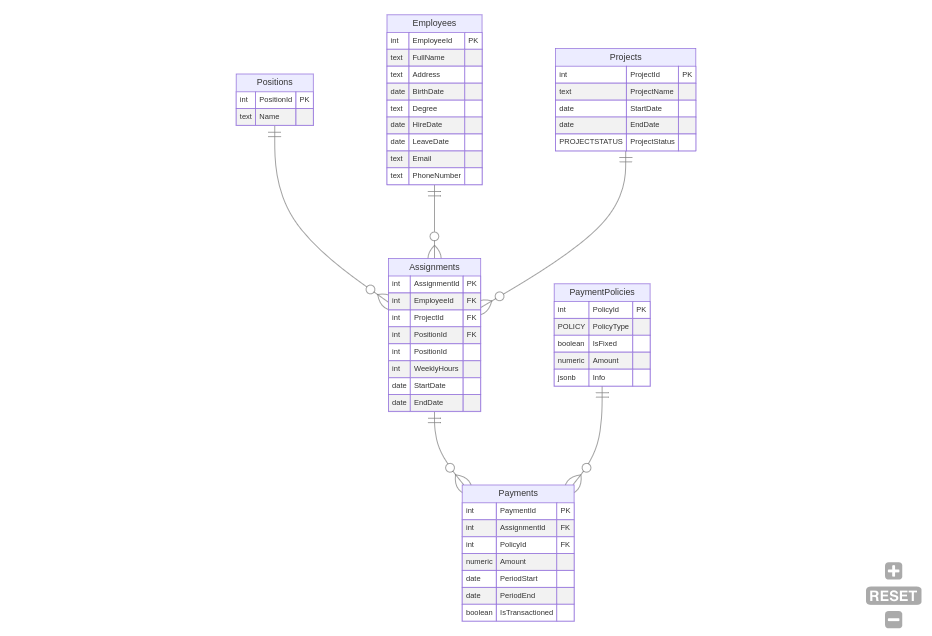
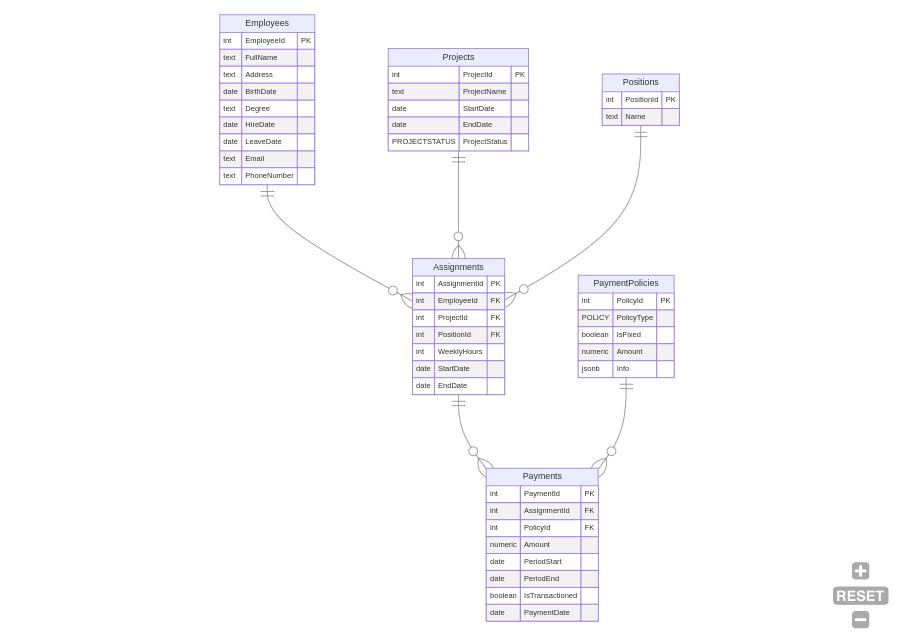
Modified README

diff --git a/README.md b/README.md
@@ -81,12 +81,20 @@
 
 Содержит информацию о всех сотрудниках компании (ту, что содержится в таблице Emplyyes в базе данных). Также присутсвуют архивные записи об уволенных сотрудниках
 
-1. Кнопка фильтрации (по имени, стажу и пр.)
-2. Режим сортировки
+1. Кнопка фильтрации:
+   - По ФИО (Полнотекстовый поиск)
+   - По стажу работы (диапазон)
+   - По текущей должности
+   - По участию в проекте
+   - По статусу (действующий/уволенный)
+2. Режим сортировки:
+   - По ФИО (А-Я, Я-А)
+   - По дате приема на работу
+   - По дате рождения
+   - По текущей должности
+   - По количеству проектов
 3. При нажатии на конкретного сотрудника происходит переход на его карточку в [Информации о сотрудниках](#pg_emp_info)
 4. Кнопка добавить служащего - также перенаправляет на страницу [Информация о сотрудниках](#pg_emp_info). Все поля пустые, новый сотрудник не попадает в базу до заполнения всех полей
-5. Кнопка переключатель - показывать только действующих сотрудников или уволенных тоже
-6. Поиск по имени
 
 <a name="pg_projects"></a>
 
@@ -94,8 +102,15 @@
 
 Содержит информацию о всех проектах компании (в т.ч. должностей, не относящихся к конкретным проектам)
 
-1. Кнопка фильтрации
-2. Режим сортировки
+1. Кнопка фильтрации:
+   - По названию
+   - По дате начала (диапазон)
+   - По дате окончания (диапазон)
+   - По статусу (активный/завершённый/архивный)
+2. Режим сортировки:
+   - По названию (А-Я, Я-А)
+   - По дате начала
+   - По дате окончания
 3. При нажатии на конкретный проект происходит переход на его карточку в [Информации о проектах](#pg_proj_info)
 4. Кнопка добавить проект - также перенаправляет на страницу [Информация о проектах](#pg_proj_info). Все поля пустые, новый проект не попадает в базу до заполнения всех полей
 5. Поиск по названию
@@ -106,8 +121,16 @@
 
 Все начисления зарплат/премий конкретным сотрудникам
 
-1. Кнопка филтрации (по датам, по размеру, по типу)
-2. Режим сортировки
+1. Кнопка фильтрации:
+   - По дате выплаты (диапазон)
+   - По размеру выплаты (диапазон)
+   - По типу выплаты (зарплата, премия, бонус, и т.д.)
+   - По сотруднику
+   - По политике выплаты
+2. Режим сортировки:
+   - По дате выплаты
+   - По размеру выплаты
+   - По ФИО сотрудника
 
 Данные можно редактировать
 
@@ -117,8 +140,16 @@
 
 Политики выплат компании, связанные с премиями, проектам и т.д.
 
-1. Кнопка фильтрации по типу/размеру выплат
-2. Режим сортировки
+1. Кнопка фильтрации:
+   - По типу политики (salary, seniority, calendar_bonus, one_time_bonus)
+   - По размеру выплаты (диапазон)
+   - По проекту
+   - По должности
+   - По минимальному стажу (для типа seniority)
+   - По событию/поводу (для calendar_bonus, one_time_bonus)
+2. Режим сортировки:
+   - По размеру выплаты
+   - По минимальному стажу
 
 Данные можно редактировать
 
@@ -164,34 +195,182 @@
 
 ## Сценарии использования
 
-- Добавить нового сотрудника
-        1. Главная страница ->
-        2. Список сотрудников -> 
-        3. Добавить сотрудника ->
-        4. Ввести все необходимые поля ->
-        5. Сохранить
-- Посмотреть историю участия в проектах для конкретного сотрудника
-        1. Главная страница ->
-        2. Список сотрудников ->
-        3. Поиск по имени ->
-        4. Нажать на сотрудника ->
-        5. Получить искомый список
-- Изменение политики выплат
-        1. Главная страница ->
-        2. Политики выплат ->
-        3. Найти нужную ->
-        4. Поменять оклад
-- Составление отчётов
-        1. Главная страница ->
-        2. История начислений ->
-        3. Выбираем сроки/категории
-        4. Получаем всю информацию для составления отчётов
-- Изменение контактной информации сотрудника
-        1. Главная страница ->
-        2. Список сотрудников ->
-        3. Найти нужного ->
-        4. Нажать на него ->
-        5. Поменять почту/номер телефона
+### 1. Добавление нового сотрудника
+1. Главная страница
+2. Нажать "Список сотрудников"
+3. Нажать кнопку "Добавить сотрудника"
+4. Заполнить все необходимые поля:
+   - ФИО, дата рождения, образование
+   - Домашний адрес
+   - Контактная информация
+   - Дата приема на работу
+5. Нажать "Сохранить" -> Сотрудник добавлен в систему
+
+### 2. Просмотр истории участия в проектах для конкретного сотрудника
+1. Главная страница
+2. Нажать "Список сотрудников"
+3. Использовать поиск по ФИО или фильтр по фамилии
+4. Нажать на нужного сотрудника
+5. На странице "Информация о сотруднике" просмотреть раздел "Участие в проектах":
+   - Текущие проекты и роли
+   - Архив: бывшие проекты с датами начала и окончания
+   - Должности на каждом проекте
+
+### 3. Назначение сотрудника на проект с определенной должностью
+1. Главная страница
+2. Нажать "Список проектов"
+3. Кликнуть на нужный проект
+4. На странице "Информация о проекте" нажать кнопку "Добавить сотрудника"
+5. В появившемся меню:
+   - Выбрать сотрудника из списка (с поиском)
+   - Выбрать должность в проекте (руководитель, аналитик, секретарь, эксперт)
+   - Указать дату начала работы
+6. Нажать "Подтвердить" -> Сотрудник добавлен в проект
+
+### 4. Изменение контактной информации сотрудника
+1. Главная страница
+2. Нажать "Список сотрудников"
+3. Найти и кликнуть на нужного сотрудника
+4. На странице "Информация о сотруднике" в разделе "Контактная информация":
+   - Отредактировать/добавить номер телефона
+   - Отредактировать/добавить email
+   - Отредактировать домашний адрес
+5. Нажать "Сохранить" -> Данные обновлены
+
+### 5. Изменение должности сотрудника
+1. Главная страница
+2. Нажать "Список сотрудников"
+3. Найти и кликнуть на нужного сотрудника
+4. На странице "Информация о сотруднике" найти кнопку "Изменить должность"
+5. Выбрать новую должность из списка доступных должностей/проектов
+6. Указать дату вступления в должность
+7. Нажать "Применить" -> История должностей обновлена, текущая должность изменилась
+
+### 6. Удаление сотрудника из проекта
+1. Главная страница
+2. Способ A: Через проект
+   - Нажать "Список проектов"
+   - Выбрать проект
+   - На странице проекта найти сотрудника в списке
+   - Нажать кнопку "Удалить" рядом с ним
+   - Указать дату окончания работы (или текущую дату)
+3. Способ B: Через карточку сотрудника
+   - Нажать "Список сотрудников"
+   - Выбрать сотрудника
+   - На странице "Информация о сотруднике" в списке проектов нажать "Удалить из проекта"
+4. Нажать "Подтвердить" -> Запись переместилась в архив проекта для данного сотрудника
+
+### 7. Составление ведомости к выплате зарплат (Отчет по сотрудникам)
+1. Главная страница
+2. Нажать "История начислений"
+3. Применить фильтры:
+   - **По типу выплаты**: Выбрать "Зарплата"
+   - **По дате выплаты**: Указать начало и конец периода (месяца/квартала)
+   - (Опционально) **По проекту**: Если нужна ведомость конкретного проекта
+4. Данные отчета должны содержать:
+   - ФИО сотрудника
+   - Должность
+   - Оклад (размер выплаты за период)
+   - Дата выплаты
+   - Проект (если применяется)
+5. (Опционально) Экспортировать в файл/печать
+6. На основе отчета:
+   - Подготовить ведомость для бухгалтерии
+   - Проверить правильность начислений
+   - Выявить недоплаты или переплаты
+
+### 8. Анализ премиальных начислений (Отчет по премиям)
+1. Главная страница
+2. Нажать "История начислений"
+3. Применить фильтры:
+   - **По типу выплаты**: Выбрать "Премия" или "Бонус"
+   - **По дате выплаты**: Указать нужный период
+   - (Опционально) **По сотруднику**: Для анализа премий конкретного лица
+4. Данные отчета должны содержать:
+   - ФИО сотрудника
+   - Тип премии (праздничная/за достижения/за стаж)
+   - Размер премии
+   - Дата выплаты
+   - Причина/повод
+5. На основе отчета:
+   - Проанализировать объем премирования
+   - Выявить наиболее часто премируемых сотрудников
+   - Проверить соответствие политикам выплат
+
+### 9. Составление отчета по расходам на сотрудника
+1. Главная страница
+2. Нажать "История начислений"
+3. Применить фильтры:
+   - **По сотруднику**: Выбрать конкретного сотрудника
+   - **По дате выплаты**: Указать период (весь год или квартал)
+4. Данные отчета должны содержать для выбранного сотрудника:
+   - Итоговая сумма зарплаты за период
+   - Итоговая сумма премий за период
+   - Итоговая сумма бонусов за период
+   - Полная сумма расходов на сотрудника
+5. На основе отчета:
+   - Рассчитать среднемесячные расходы
+   - Сравнить с предыдущими периодами
+   - Оценить ROI сотрудника
+
+### 10. Проверка правильности политик выплат
+1. Главная страница
+2. Нажать "Политики выплат"
+3. Применив фильтры по необходимости:
+   - **По типу**: Осмотреть все 4 типа (salary, seniority, calendar_bonus, one_time_bonus)
+   - **По проекту**: Убедиться, что есть политики для всех проектов
+   - **По должности**: Проверить наличие политик для всех должностей
+4. Проверить для каждой политики:
+   - Размер выплаты соответствует утвержденному
+   - JSON метаинформация содержит правильные ссылки на проекты/должности/стажи
+   - События/поводы (для bonus типов) описаны корректно
+5. При необходимости редактировать:
+   - Нажать на политику
+   - Изменить нужные поля
+   - Нажать "Сохранить"
+
+### 11. Анализ стажа и бонусов за стаж
+1. Главная страница
+2. Нажать "Список сотрудников"
+3. Применить фильтры:
+   - **По стажу**: Выбрать нужный диапазон (напр. 3-5 лет, от 5 лет и т.д.)
+4. (Альтернативно) Нажать "История начислений":
+   - Применить фильтр **По типу выплаты**: "Бонус за стаж"
+   - Указать период
+5. Данные отчета должны содержать:
+   - ФИО сотрудника
+   - Текущий стаж в компании
+   - Размер бонуса за стаж
+   - Дата выплаты последнего бонуса
+6. На основе отчета:
+   - Определить сотрудников, которым вскоре положен следующий бонус
+   - Проверить соответствие премирования политикам
+
+### 12. Выписка об отпусках и временном переводе сотрудника
+1. Главная страница
+2. Нажать "Список сотрудников"
+3. Найти нужного сотрудника и кликнуть на него
+4. На странице "Информация о сотруднике":
+   - Просмотреть раздел "История участия в проектах"
+   - Обратить внимание на даты начала/окончания для каждого проекта
+   - Идентифицировать периоды, когда сотрудник не был назначен ни на какой проект (отпуска, переаттестация)
+5. Перейти на "История начислений" с фильтром по этому сотруднику:
+   - Проверить, были ли выплаты во время переводов
+   - Убедиться в корректности начислений
+
+### 13. Подготовка списка сотрудников для нового проекта
+1. Главная страница
+2. Нажать "Список сотрудников"
+3. Применить фильтры для поиска подходящих кандидатов:
+   - **По стажу**: Выбрать опытных сотрудников (5+ лет)
+   - **По текущей должности**: Выбрать нужные должности (аналитики, разработчики и т.д.)
+   - **По участию в проекте**: Исключить занятых на критичных проектах (или выбрать свободных)
+4. Просмотреть карточки выбранных кандидатов:
+   - Проверить стаж работы
+   - Посмотреть историю участия в похожих проектах
+5. Перейти на страницу "Список проектов"
+6. Создать новый проект или выбрать существующий
+7. Добавить выбранных сотрудников на проект, назначив им подходящие роли
 
 ---------
 
@@ -210,6 +389,13 @@
 - Для облечгенной логики было принято решение не разделять роли в проекте с должностями в компании, поэтому (как видно в тестовых данных), например, руководство компании вынесено в отдельный проект, так как ни к какому другому конкретному проекту их отнести нельзя. А если делать не так, то получится путаница с политиками выплат и историями должностей
 - В политиках выплат было принято решение прибегнуть к денормализации и добавить JSON поле с метаинформацией, чтобы не нагружать визуальный интерфейс кучей полей, у большинства из которых будет значение NULL. Существует 4 типа PolicyType: salary (почасовой оклад) - для него JSON содержит ссылку на проект и должность в проекте; seniority (бонус за стаж) - содержит стаж в полных годах и месяцах; calendar_bonus (праздничные премии) и one_time_bonus (премии за достижения) - содержится причина премии (новый год, др, высокая продуктивность сотрудника и др.)
 - В базу заранее добавлены несколько удобных индексов для скорости работы и полнотекстового поиска, а также несколько представлений, рассчитанные под конкретные страницы. Не исключено, что они будут видоизменяться в процессе
+
+**Примеры данных в JSON поле**:
+
+- **Тип salary** - {"PositonId": INT, "ProjectId": INT}. Ссылки на конкретный проект и должность
+- **Тип seniority** - {"minYears": INT, "description": TEXT}. Пример: {"minYears": 3, "description": "5% за 3 года стажа"}
+- **Тип calendar_bonus** - {"eventType": TEXT, "description": TEXT}. Пример: {"eventType": "new_year", "description": "Новогодняя премия"}
+- **Тип one_time_bonus** - {"reason": TEXT}. Пример: {"reason": "Перевыполнение плана"}
 
 <a name="gradle"></a>
 
